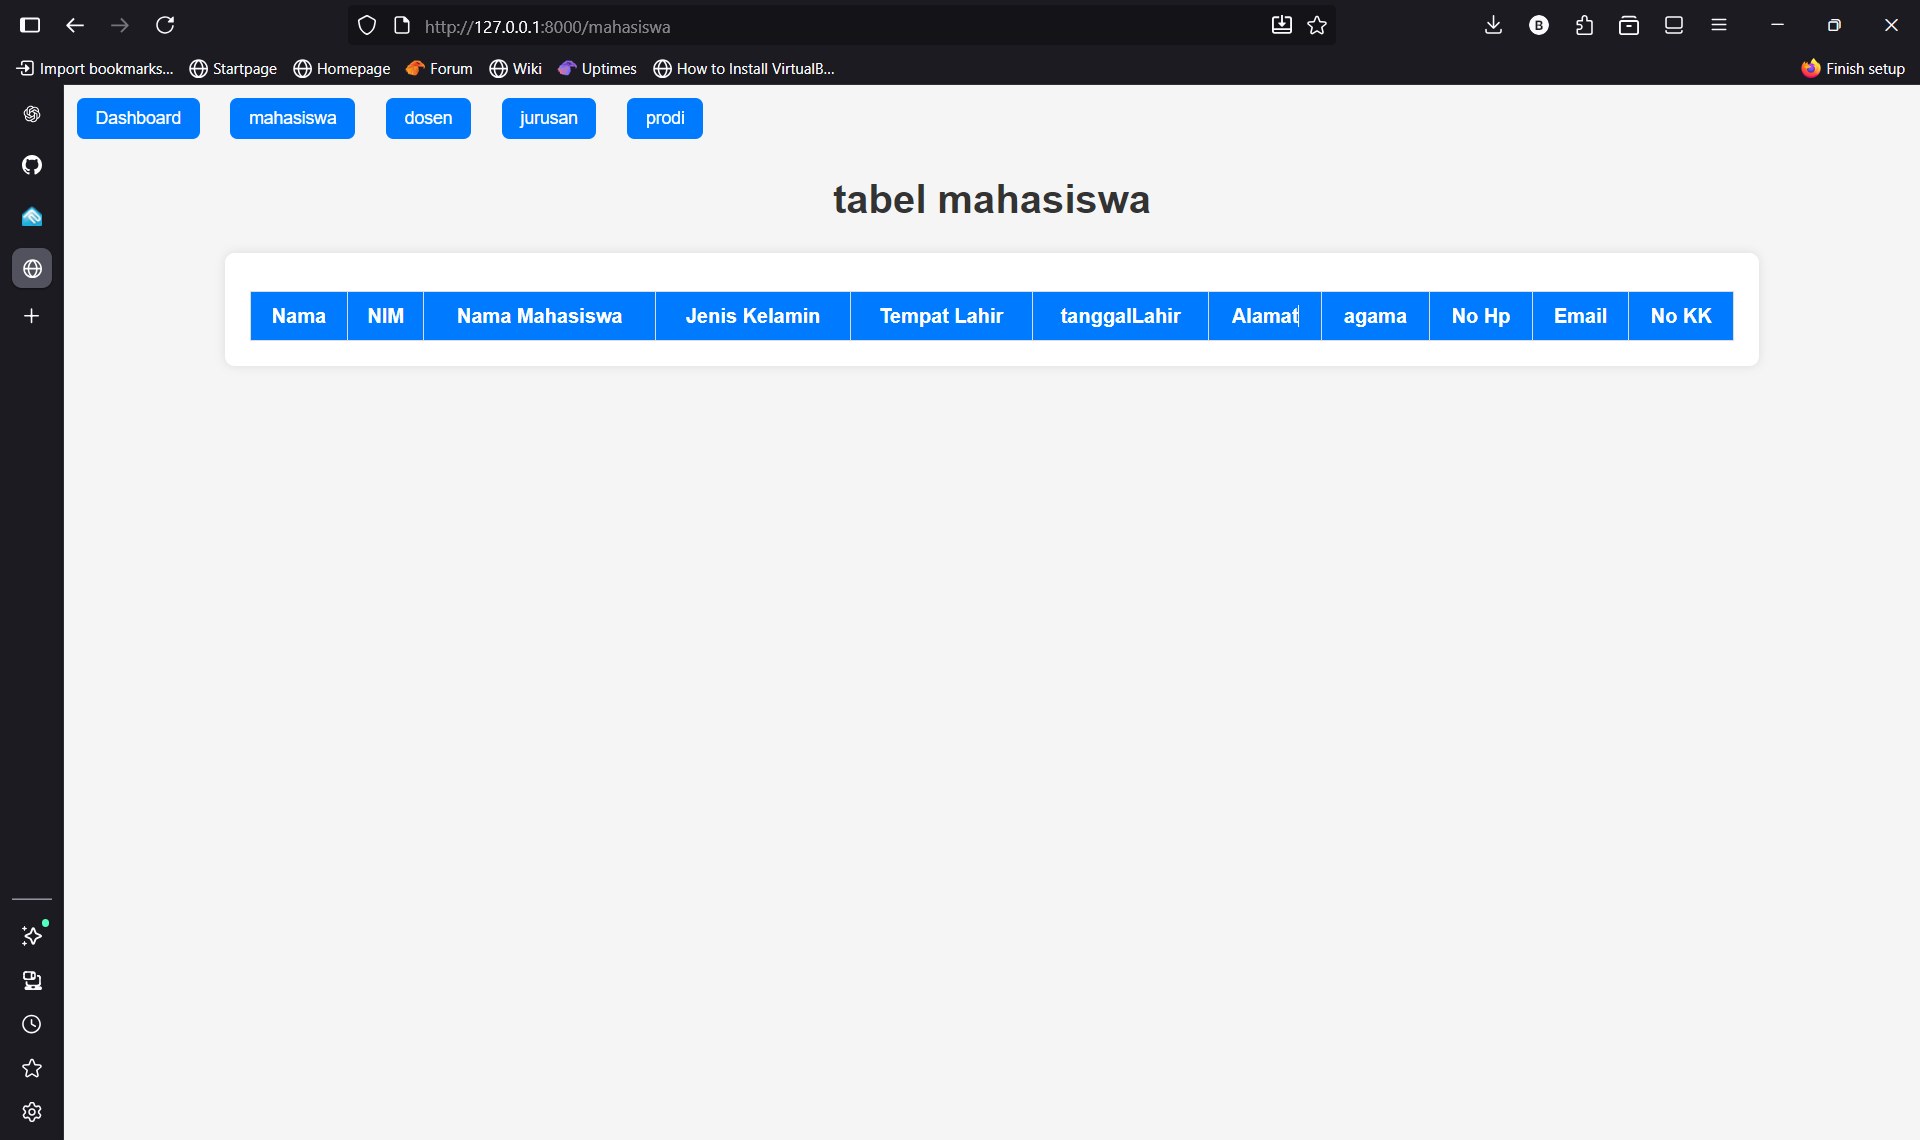
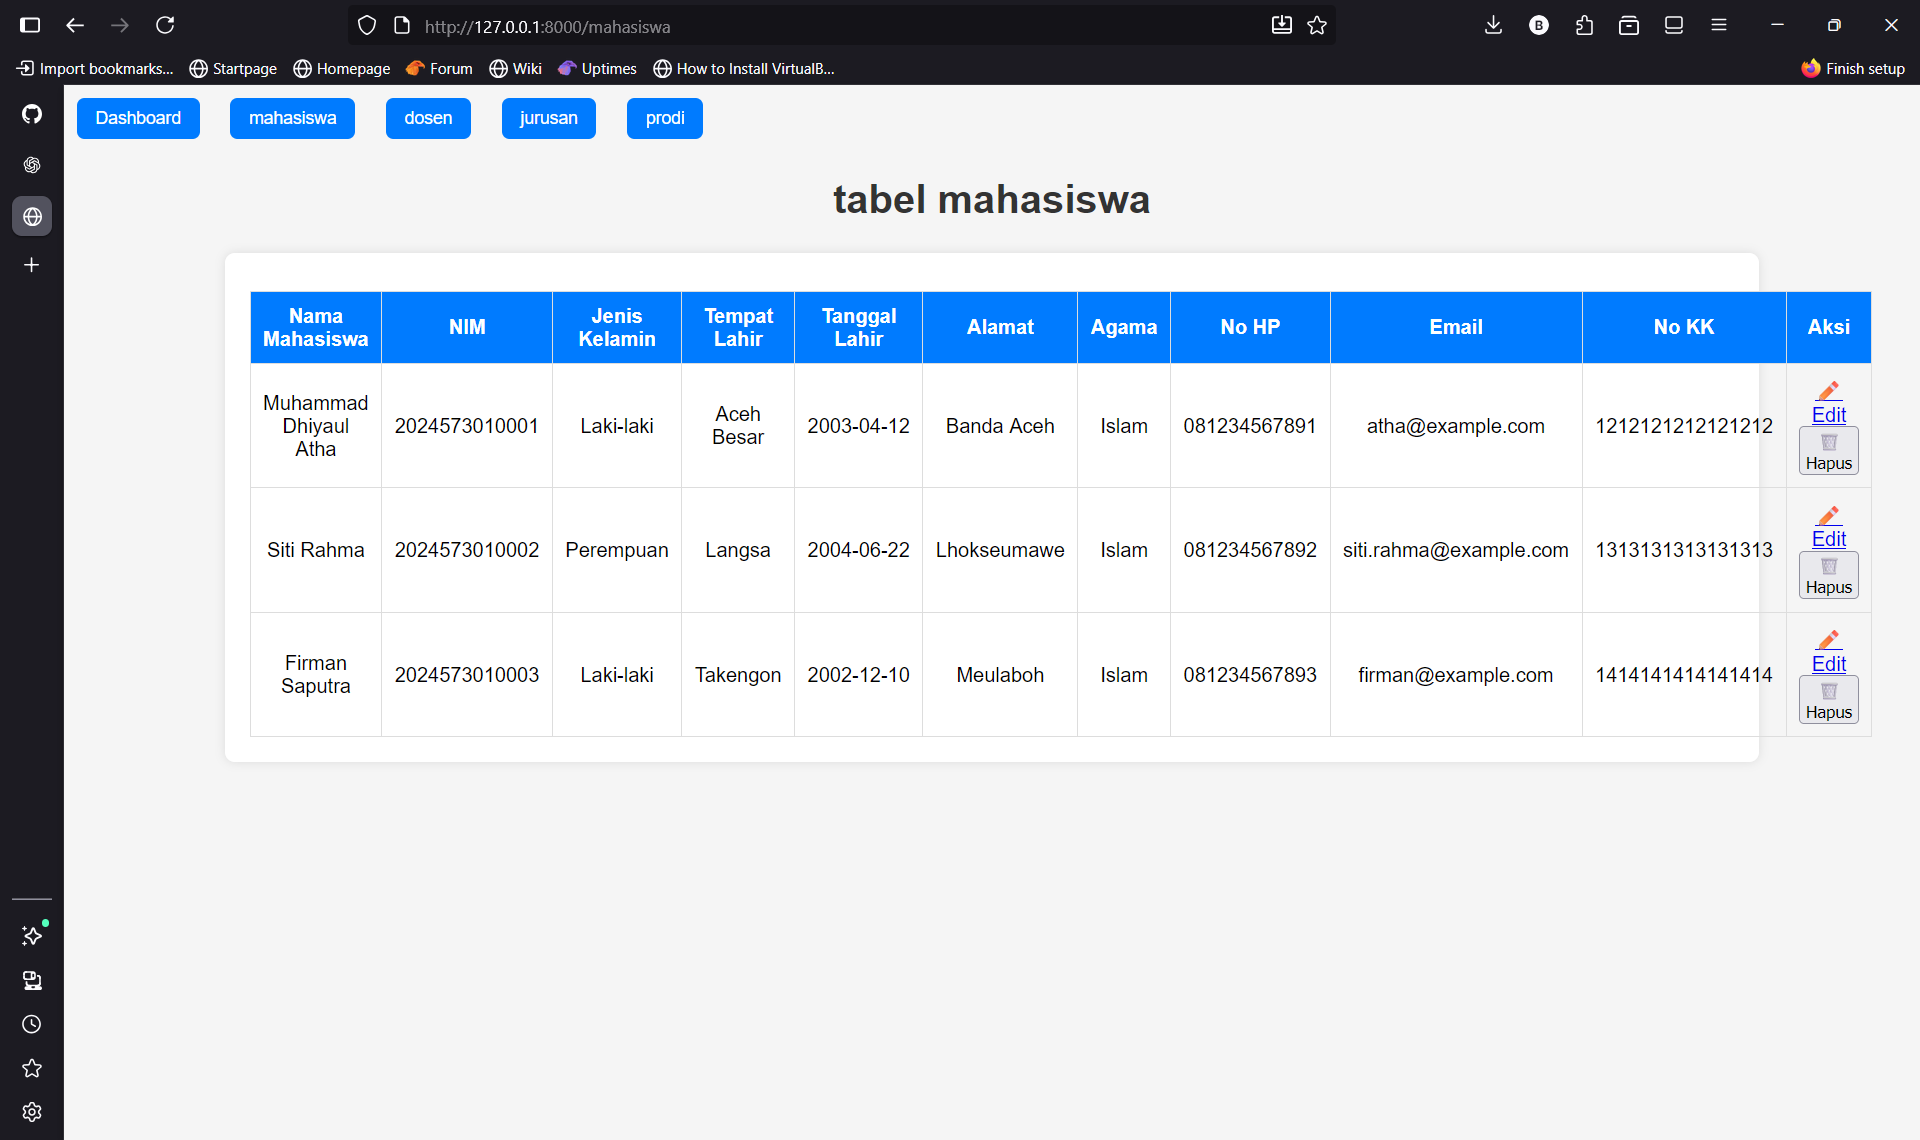
add: mahasiswa page

diff --git a/resources/views/mahasiswa/index.blade.php b/resources/views/mahasiswa/index.blade.php
@@ -6,7 +6,7 @@
     <title>Document</title>
 
      <style>
-        /* Reset sederhana */
+/* Reset sederhana */
 body {
     margin: 0;
     padding: 0;
@@ -65,37 +65,8 @@ th, td {
     text-align: center;
 }
 
-/* Hover baris */
 tbody tr:hover {
     background: #f1f1f1;
-}
-
-/* Tombol */
-.btn {
-    padding: 5px 10px;
-    border-radius: 5px;
-    border: none;
-    text-decoration: none;
-    cursor: pointer;
-    font-size: 13px;
-}
-
-.btn-warning {
-    background: #ffc107;
-    color: black;
-}
-
-.btn-warning:hover {
-    background: #e0a800;
-}
-
-.btn-danger {
-    background: #dc3545;
-    color: white;
-}
-
-.btn-danger:hover {
-    background: #b02a37;
 }
 
      </style>
@@ -112,35 +83,35 @@ tbody tr:hover {
         <table>
             <thead>
                 <tr>
-                    <th>Nama</th>
-                    <th>NIM</th>
                     <th>Nama Mahasiswa</th>
+                    <th>NIM</th>
                     <th>Jenis Kelamin</th>
                     <th>Tempat Lahir</th>
-                    <th>tanggalLahir</th>
+                    <th>Tanggal Lahir</th>
                     <th>Alamat</th>
-                    <th>agama</th>
-                    <th>No Hp</th>
+                    <th>Agama</th>
+                    <th>No HP</th>
                     <th>Email</th>
                     <th>No KK</th>
+                    <th>Aksi</th>
                 </tr>
             </thead>
             <tbody>
                 @foreach ($mahasiswas as $mahasiswa)
                 <tr>
-                    <td>{{ $mahasiswa->namamahasiswa }}</td>
+                    <td>{{ $mahasiswa->namaMahasiswa }}</td>
                     <td>{{ $mahasiswa->nim }}</td>
                     <td>{{ $mahasiswa->jkel }}</td>
+                    <td>{{ $mahasiswa->tempatLahir }}</td>
+                    <td>{{ $mahasiswa->tanggalLahir }}</td>
                     <td>{{ $mahasiswa->alamat }}</td>
-                    <td>{{ $mahasiswa->tempatlahir }}</td>
-                    <td>{{ $mahasiswa->tanggallahir }}</td>
                     <td>{{ $mahasiswa->agama }}</td>
                     <td>{{ $mahasiswa->noTelp }}</td>
                     <td>{{ $mahasiswa->email }}</td>
                     <td>{{ $mahasiswa->noKK }}</td>
                     <td>
                         <a href="{{ route('mahasiswa.edit', $mahasiswa->nim) }}">✏ Edit</a>
-                        <form action="{{ route('mahasiswa.destroy', $mahasiswa->nim) }}" method="POST" >
+                        <form action="{{ route('mahasiswa.destroy', $mahasiswa->nim) }}" method="POST">
                             @csrf
                             @method('DELETE')
                             <button type="submit" onclick="return confirm('Yakin ingin menghapus data ini?')">🗑 Hapus</button>

diff --git a/database/seeders/MahasiswaSeeder.php b/database/seeders/MahasiswaSeeder.php
@@ -1,0 +1,57 @@
+<?php
+
+namespace Database\Seeders;
+
+use Illuminate\Database\Seeder;
+use Illuminate\Support\Facades\DB;
+
+class MahasiswaSeeder extends Seeder
+{
+    public function run(): void
+    {
+        DB::table('mahasiswas')->insert([
+            [
+                'namaMahasiswa' => 'Muhammad Dhiyaul Atha',
+                'nim' => '2024573010001',
+                'jkel' => 'Laki-laki',
+                'alamat' => 'Banda Aceh',
+                'tempatLahir' => 'Aceh Besar',
+                'tanggalLahir' => '2003-04-12',
+                'agama' => 'Islam',
+                'noTelp' => '081234567891',
+                'noKK' => '1212121212121212',
+                'email' => 'atha@example.com',
+                'created_at' => now(),
+                'updated_at' => now()
+            ],
+            [
+                'namaMahasiswa' => 'Siti Rahma',
+                'nim' => '2024573010002',
+                'jkel' => 'Perempuan',
+                'alamat' => 'Lhokseumawe',
+                'tempatLahir' => 'Langsa',
+                'tanggalLahir' => '2004-06-22',
+                'agama' => 'Islam',
+                'noTelp' => '081234567892',
+                'noKK' => '1313131313131313',
+                'email' => 'siti.rahma@example.com',
+                'created_at' => now(),
+                'updated_at' => now()
+            ],
+            [
+                'namaMahasiswa' => 'Firman Saputra',
+                'nim' => '2024573010003',
+                'jkel' => 'Laki-laki',
+                'alamat' => 'Meulaboh',
+                'tempatLahir' => 'Takengon',
+                'tanggalLahir' => '2002-12-10',
+                'agama' => 'Islam',
+                'noTelp' => '081234567893',
+                'noKK' => '1414141414141414',
+                'email' => 'firman@example.com',
+                'created_at' => now(),
+                'updated_at' => now()
+            ],
+        ]);
+    }
+}

diff --git a/database/seeders/DatabaseSeeder.php b/database/seeders/DatabaseSeeder.php
@@ -13,13 +13,22 @@ class DatabaseSeeder extends Seeder
     /**
      * Seed the application's database.
      */
-    public function run(): void
-    {
-        // User::factory(10)->create();
+    // public function run(): void
+    // {
+    //     // User::factory(10)->create();
 
-        User::factory()->create([
-            'name' => 'Test User',
-            'email' => 'test@example.com',
-        ]);
-    }
+    //     User::factory()->create([
+    //         'name' => 'Test User',
+    //         'email' => 'test@example.com',
+    //     ]);
+    // }
+
+
+    public function run(): void
+{
+    $this->call([
+        MahasiswaSeeder::class,
+    ]);
+}
+
 }

diff --git a/app/Models/Mahasiswa.php b/app/Models/Mahasiswa.php
@@ -7,15 +7,20 @@ use Illuminate\Database\Eloquent\Factories\HasFactory;
 
 class Mahasiswa extends Model
 {
+    use HasFactory;
+
     protected $table = 'mahasiswas';
 
     protected $fillable = [
-        'nama',
+        'namaMahasiswa',
         'nim',
-        'email',
-        'jurusan',
+        'jkel',
         'alamat',
+        'tempatLahir', 
         'tanggalLahir',
+        'agama',
         'noTelp',
+        'noKK',
+        'email',
     ];
 }

diff --git a/database/migrations/2025_11_05_004159_create_mahasiswas_table.php b/database/migrations/2025_11_05_004159_create_mahasiswas_table.php
@@ -17,7 +17,7 @@ return new class extends Migration
             $table->string('nim')->unique();
             $table->string("jkel");
             $table->string('alamat');
-            $table->string('tampatLahir');
+            $table->string('tempatLahir');
             $table->date('tanggalLahir');
             $table->string('agama');
             $table->string('noTelp')->unique();
